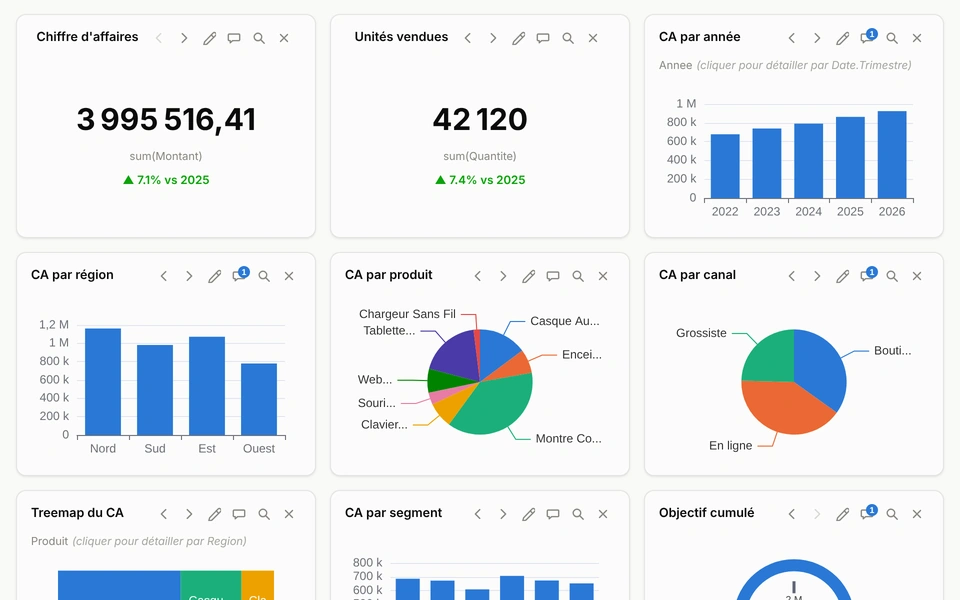
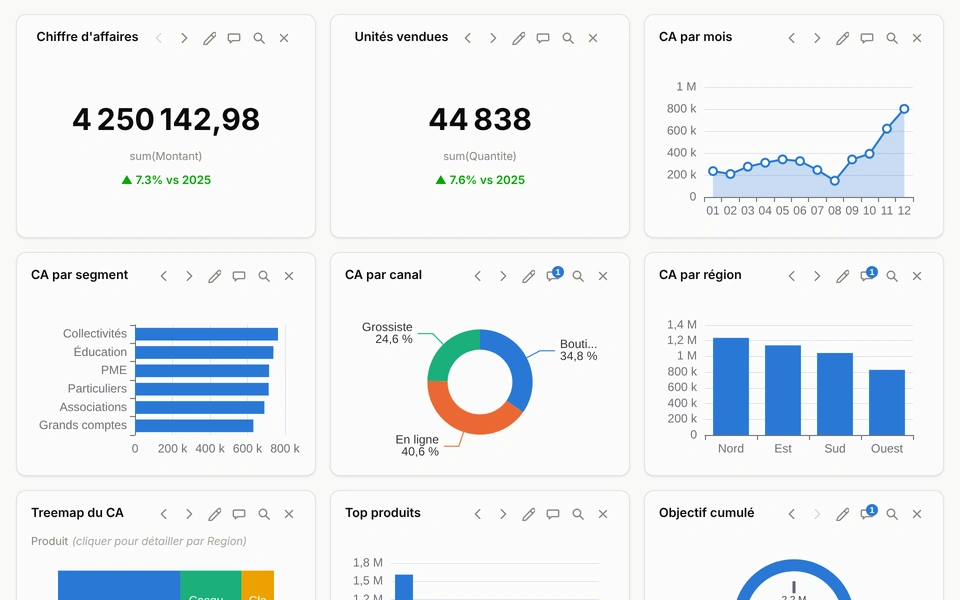
Vitrine GFS : trois captures plus variées (une page et des types de tuile par scène)
Les scènes 1 et 2 de la consigne 014 se ressemblaient (même page, filtrée ou non).
Refaites depuis main à 5a64945 : (1) indicateurs, courbe en aire, anneau, barres
horizontales triées ; (2) camembert, treemap en drill-down, tableau croisé, nuage de
points avec un filtre croisé actif ; (3) cascade et mesures dans le temps. Légendes 1 et 3
mises à jour, description inchangée. Aucun code ne change.

Claude-Session: https://claude.ai/code/session_01TbSoW3nwhLKfGxbiVWD6JY

diff --git a/HYPOTHESES.md b/HYPOTHESES.md
@@ -2507,17 +2507,29 @@ dans une seule instance de widget, avec ses propres tuiles internes.
     équipes (aucun nom de personne dans les images), les quantités sont pondérées par produit (sinon le
     nuage de points est une colonne verticale), la jauge passe en dernière tuile (sa taille de 270 px la
     rend peu lisible) et les titres de tuile sont raccourcis pour ne pas finir en « … ».
-    Scènes : (1) page « Vue d'ensemble » au repos ; (2) clic sur « Nord » (filtre croisé) puis sur
-    2025 (drill-down vers les trimestres) ; (3) page « Analyse avancée » (cascade, N-1, YTD, tableau
-    croisé, cumul, nuage de points). Les scripts de prise de vue ne sont pas committés (même règle que
-    toute la suite Playwright de ce dépôt, voir CLAUDE.md §5) : ils sont dans le dossier partagé du
-    projet, `demos/vitrine-gfs/`.
+    Scènes (reprises le 18/11/2026, voir plus bas) : (1) page « Vue d'ensemble » au repos, avec les
+    types ajoutés par la PR #53 (courbe en aire, anneau avec %, barres horizontales triées) ; (2) page
+    « Segments & canaux » : clic sur une part du camembert (filtre croisé, les autres parts
+    s'estompent) puis sur « Nord » dans le treemap (drill-down, fil d'Ariane) ; (3) page « Analyse
+    avancée » (cascade, N-1, YTD, cumul). Les scripts de prise de vue ne sont pas committés (même
+    règle que toute la suite Playwright de ce dépôt, voir CLAUDE.md §5) : ils sont dans le dossier
+    partagé du projet, `demos/vitrine-gfs/`.
+  - **Reprise du 18/11/2026 (Antoine : « les deux premières images se ressemblent »)** : les trois
+    captures sont refaites, sous les mêmes noms, depuis `main` à `5a64945` (PR #53 comprise). Avant,
+    les scènes 1 et 2 montraient la même page de barres et de camemberts, filtrée ou non. Maintenant
+    chaque scène a sa page et ses types de tuile : 1 = indicateurs avec tendance, courbe en aire,
+    anneau, barres horizontales ; 2 = camembert, treemap, tableau croisé, nuage de points, filtre
+    croisé et drill-down en cours ; 3 = cascade et mesures dans le temps. Retouches de données en plus
+    des précédentes : une saisonnalité par mois (creux d'été, pic de fin d'année, sinon la courbe par
+    mois est plate), 3 pages réécrites à la main plutôt que réordonnées (`prep2.py`). Légendes 1 et 3
+    changées dans `vitrine.json` (la 2 reste vraie), description inchangée.
   - **Constats vus en passant, non corrigés (hors périmètre de la consigne)** : la jauge à 270 px de
     large a ses graduations et son aiguille qui se chevauchent ; le radar coupe l'étiquette du haut et
     celle du bas ; le titre de la tuile KPI déborde de quelques pixels à gauche quand la grille passe à
     4 colonnes (fenêtre de 1 200 px) ; ECharts lève `Cannot read properties of null (reading
-    'offsetWidth')` dans l'info-bulle (`_updatePosition`) quand un drill-down redessine un graphique
-    sous le pointeur (bénin en apparence, pas investigué).
+    'offsetWidth')` dans l'info-bulle (`_updatePosition`), et `Cannot set properties of null (setting
+    'innerHTML')` (`setContent`, vue le 18/11 au clic sur le treemap), quand un drill-down redessine un
+    graphique sous le pointeur (même cause, bénin en apparence, pas investigué).
 
 - **Courbe / aire, anneau, barres horizontales, tri (18/11/2026)** : issus de la comparaison avec
   l'« Assistant Data Visualisation » de la DRANE d'Orléans-Tours (`gristgouv/drane-orleans-tours-grist-widgets`,
